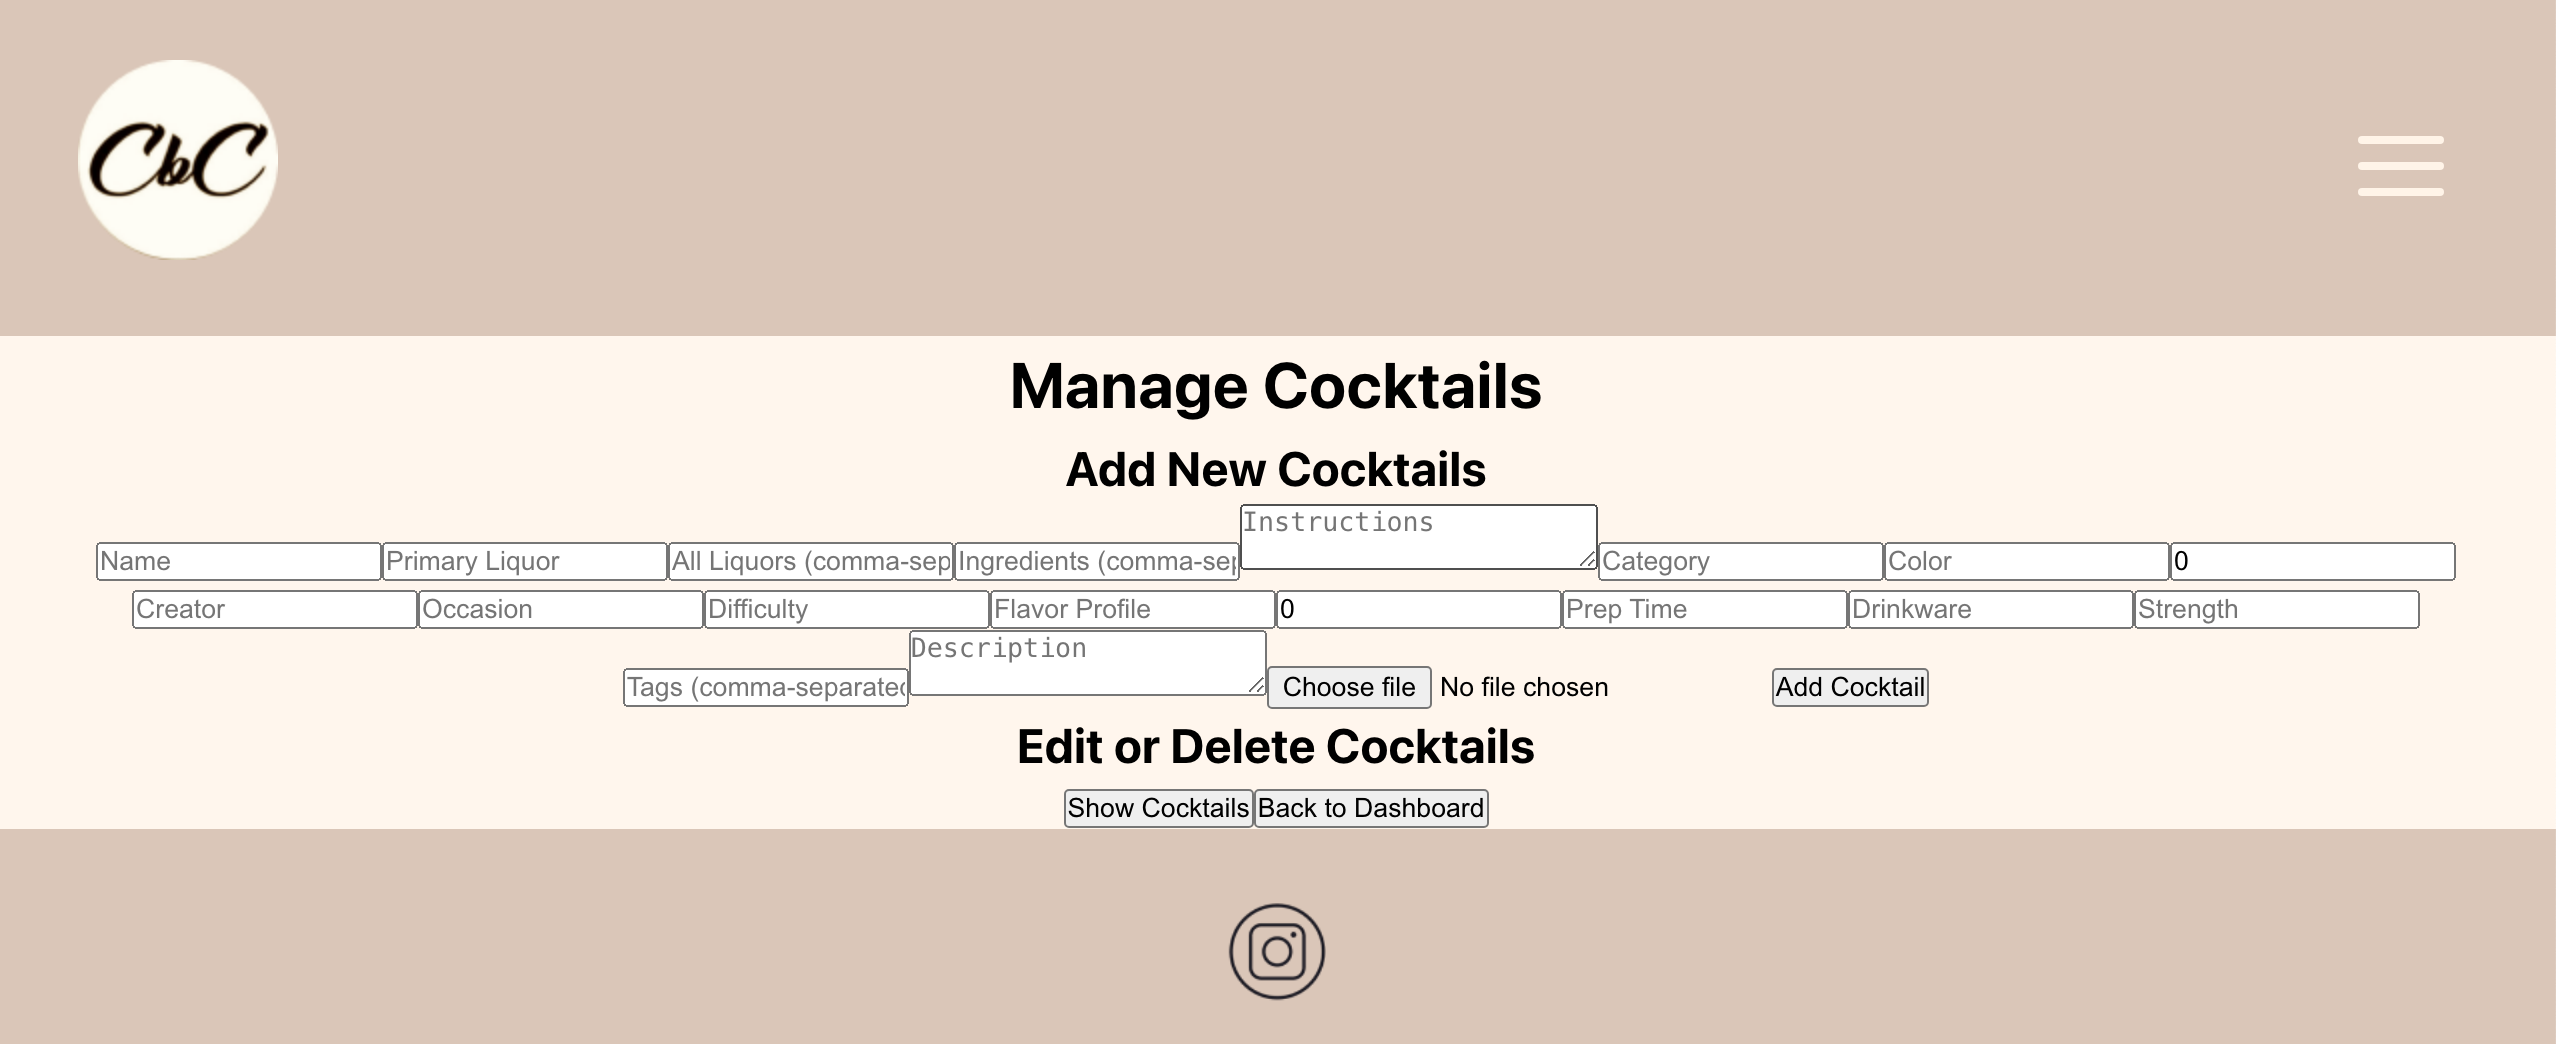
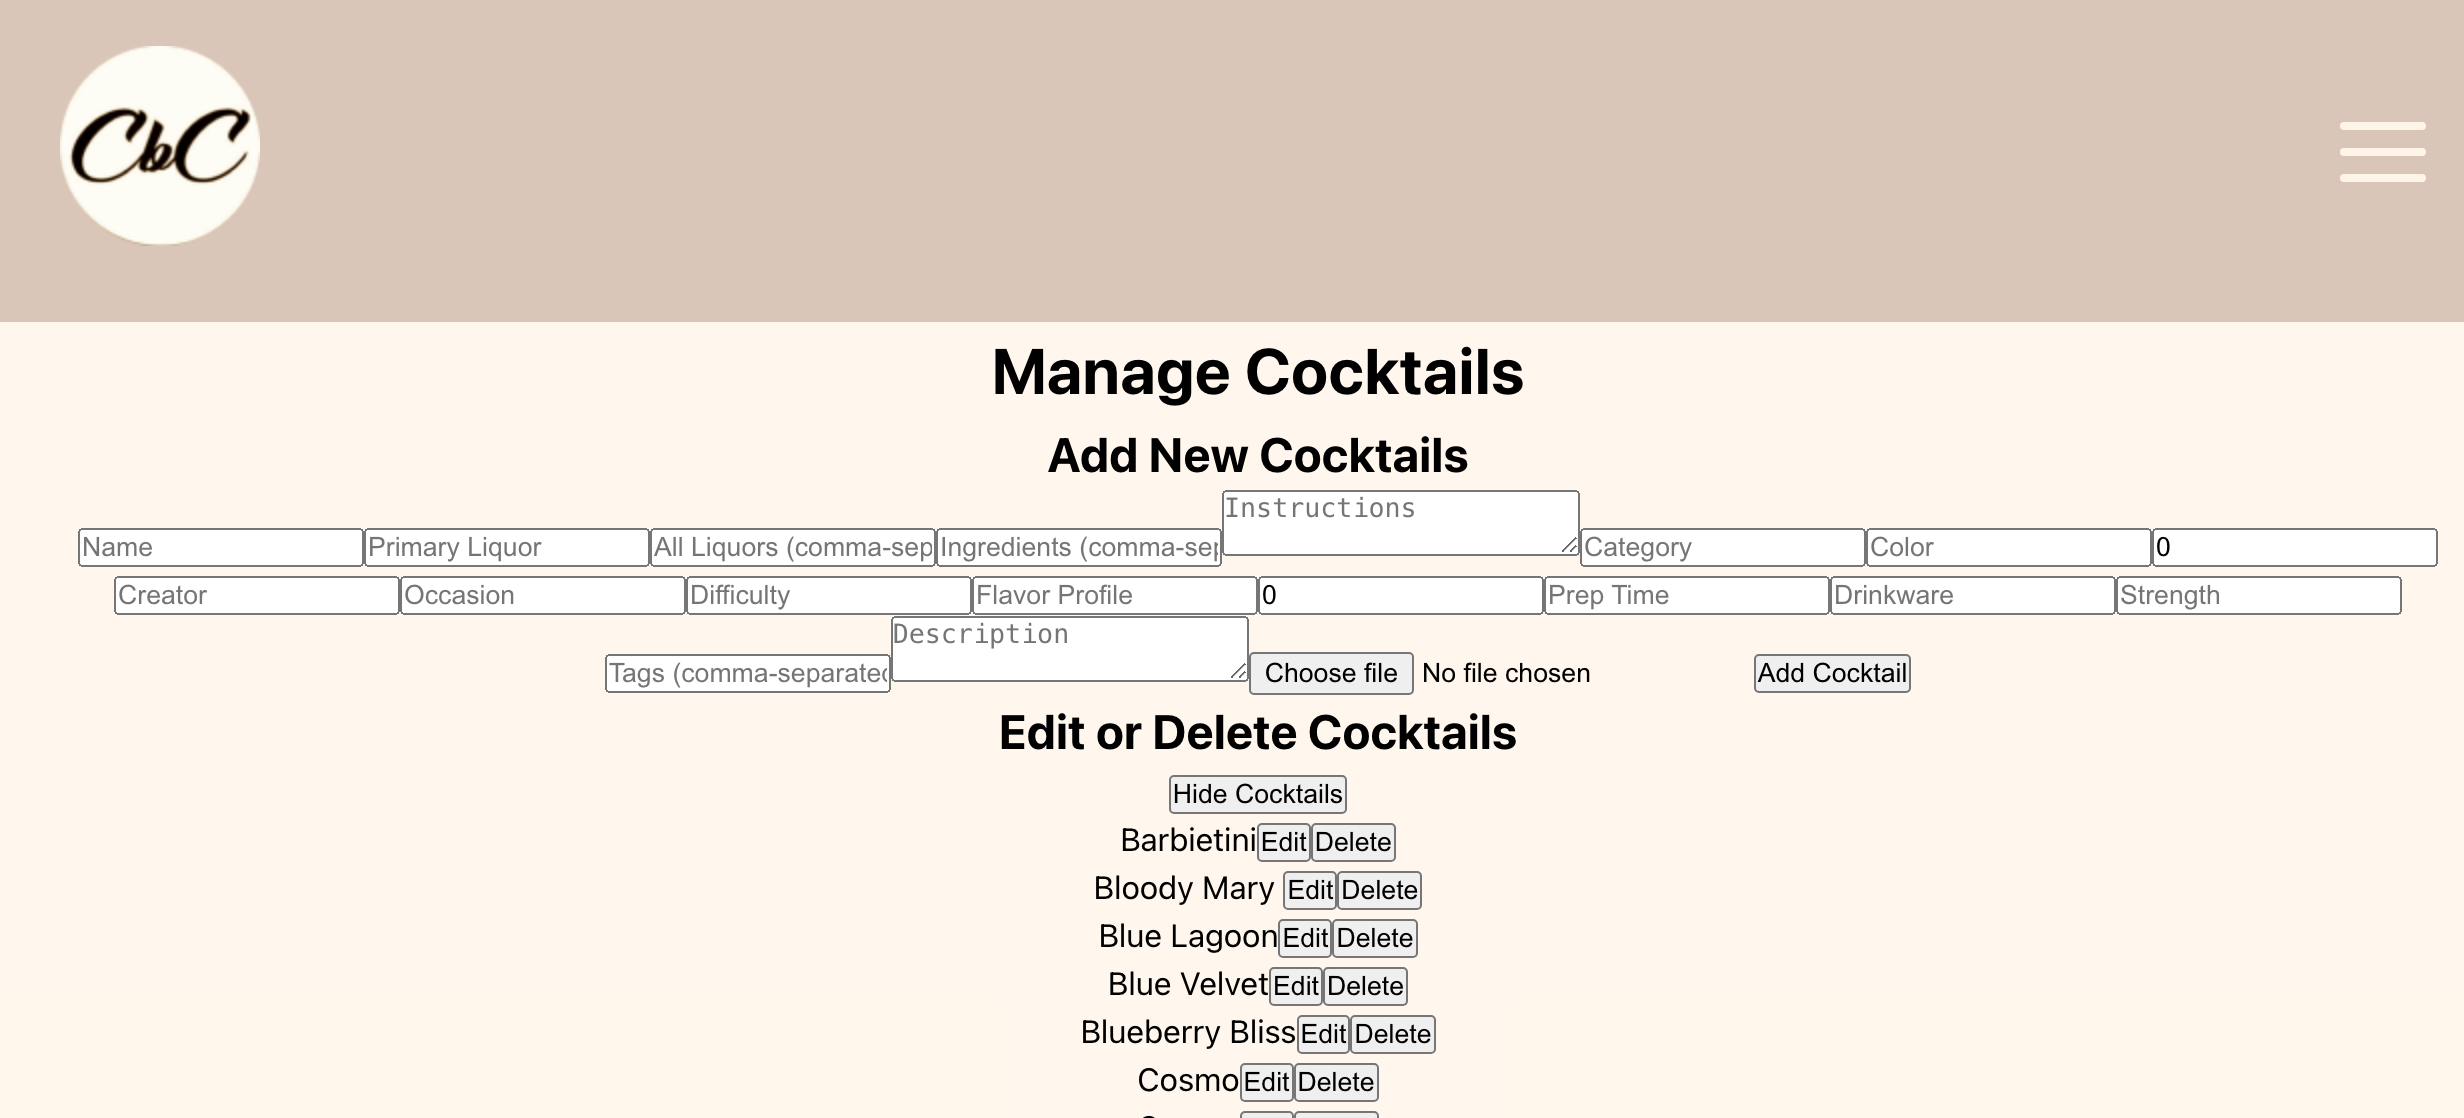
readme

diff --git a/README.md b/README.md
@@ -16,6 +16,11 @@ The admin panel is a secure area where administrators can log in to manage the a
 - Upgrading users to admin roles
 - The CSS for the admin part has not yet been prioritized, as it was more important that the functions we needed actually work and also what the user can see. 
 
+![AdminDashboard](/frontend/public/images/AdminDashboard.png)
+*The Admin Dashboard*
+
+![ManageCocktails](/frontend/public/images/ManageCocktails.png)
+*Admin Cocktail Management*
 
 # Tools and Technologies
 - Frontend: React, React Router, Styled Components, Zustand, .env
@@ -27,7 +32,8 @@ The admin panel is a secure area where administrators can log in to manage the a
 - User Interaction: Users can search for cocktails and view detailed information.
 - Admin Management: Secure admin panel for comprehensive content management.
 
-# Challenges and Problems
+
+# Challenges and Problems:
 
 # Transition from Multer to Cloudinary for Image Upload
 The project initially used Multer for handling image uploads. However, as we spent too much time trying to make it work without success, we transitioned to Cloudinary. This shift presented its own set of challenges, particularly in integrating it to our existing code. Also, it did not work until we added express-files as well. 
